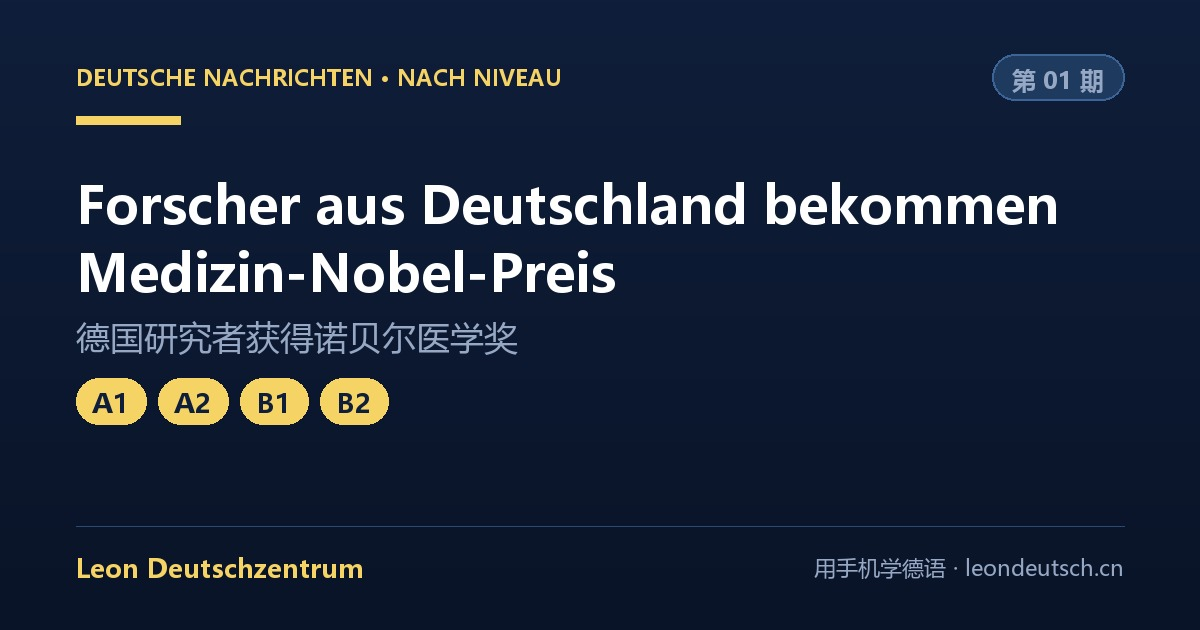
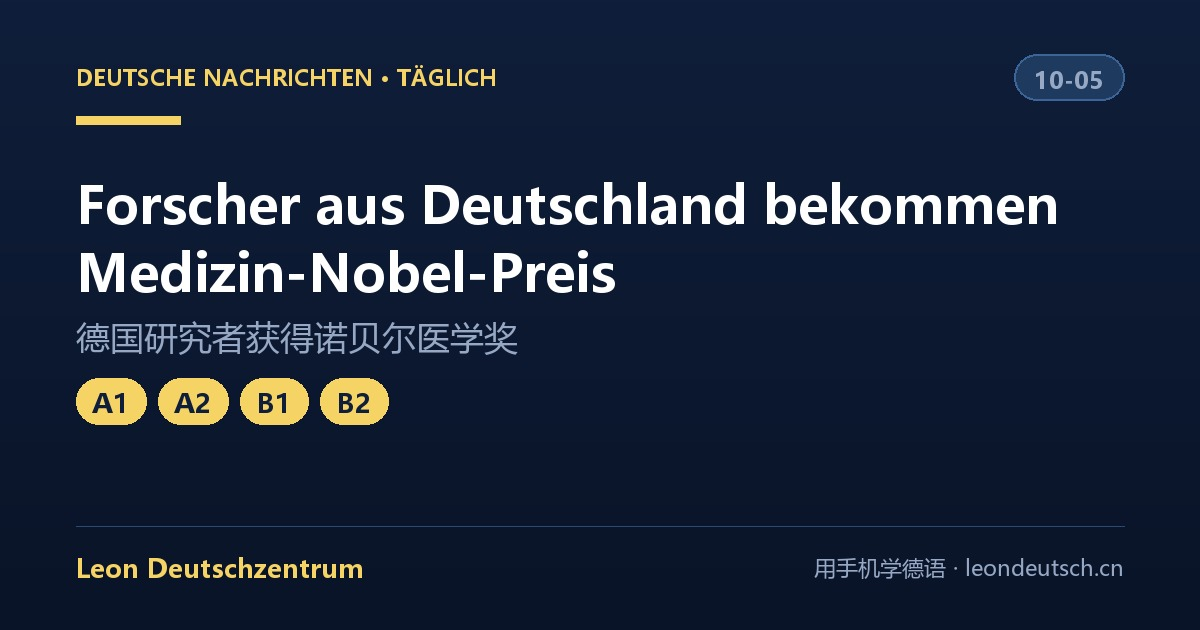
德语新闻 · 分级阅读 上线
新栏目：每期一则德国新闻，改写为 A1 / A2 / B1 / B2 四档，
德语原文 + 中文对照 + 生词表。定位是「德语阅读材料」而非时事新闻，
所以可以一期一期累积，越攒越厚。

入口：首页 hero 按钮 / 学习模块卡片 / #newslesen
数据源：_news_data.py（网站页与小红书卡片共用）

本次改动：news/01.html, news/index.html, news/og/01.jpg

Changed region(s): [[0.8017, 0.0603, 0.925, 0.181], [0.3083, 0.0905, 0.4625, 0.1508]]

diff --git a/news/01.html b/news/01.html
@@ -3,11 +3,11 @@
 <head>
 <meta charset="UTF-8">
 <meta name="viewport" content="width=device-width,initial-scale=1">
-<title>德国研究者获得诺贝尔医学奖 · 德语新闻分级阅读 第 01 期 | Leon 德语学习中心</title>
+<title>德国研究者获得诺贝尔医学奖 · 德语新闻分级阅读 2026-10-05 | Leon 德语学习中心</title>
 <meta name="description" content="今年的诺贝尔医学奖，颁给了三位研究「光遗传学」的学者。 德语原文改写为 A1 / A2 / B1 / B2 四档，配中文对照与生词表。来源：nachrichtenleicht.de (Deutschlandfunk)">
 
 <!-- Open Graph（微信 / Facebook / Twitter 分享预览卡） -->
-<meta property="og:title" content="德国研究者获得诺贝尔医学奖 · 德语新闻分级阅读 第 01 期">
+<meta property="og:title" content="德国研究者获得诺贝尔医学奖 · 德语新闻分级阅读 2026-10-05">
 <meta property="og:description" content="今年的诺贝尔医学奖，颁给了三位研究「光遗传学」的学者。 德语原文改写为 A1 / A2 / B1 / B2 四档，配中文对照与生词表。来源：nachrichtenleicht.de (Deutschlandfunk)">
 <meta property="og:image" content="/news/og/01.jpg">
 <meta property="og:image:width" content="1200">
@@ -21,12 +21,12 @@
 
 <!-- Twitter Card -->
 <meta name="twitter:card" content="summary_large_image">
-<meta name="twitter:title" content="德国研究者获得诺贝尔医学奖 · 德语新闻分级阅读 第 01 期">
+<meta name="twitter:title" content="德国研究者获得诺贝尔医学奖 · 德语新闻分级阅读 2026-10-05">
 <meta name="twitter:description" content="今年的诺贝尔医学奖，颁给了三位研究「光遗传学」的学者。 德语原文改写为 A1 / A2 / B1 / B2 四档，配中文对照与生词表。来源：nachrichtenleicht.de (Deutschlandfunk)">
 <meta name="twitter:image" content="/news/og/01.jpg">
 
 <!-- Schema.org -->
-<meta itemprop="name" content="德国研究者获得诺贝尔医学奖 · 德语新闻分级阅读 第 01 期">
+<meta itemprop="name" content="德国研究者获得诺贝尔医学奖 · 德语新闻分级阅读 2026-10-05">
 <meta itemprop="description" content="今年的诺贝尔医学奖，颁给了三位研究「光遗传学」的学者。 德语原文改写为 A1 / A2 / B1 / B2 四档，配中文对照与生词表。来源：nachrichtenleicht.de (Deutschlandfunk)">
 <meta itemprop="image" content="/news/og/01.jpg">
 
@@ -45,7 +45,7 @@
 </head>
 <body>
 <div class="box">
-  <div class="kicker">DEUTSCHE NACHRICHTEN · 第 01 期</div>
+  <div class="kicker">DEUTSCHE NACHRICHTEN · 2026-10-05</div>
   <h2>德国研究者获得诺贝尔医学奖</h2>
   <p>今年的诺贝尔医学奖，颁给了三位研究「光遗传学」的学者。 德语原文改写为 A1 / A2 / B1 / B2 四档，配中文对照与生词表。来源：nachrichtenleicht.de (Deutschlandfunk)</p>
   <p style="margin-top:18px">正在打开 <a href="/#newslesen">德语新闻 · 分级阅读</a>…</p>

diff --git a/news/index.html b/news/index.html
@@ -3,11 +3,11 @@
 <head>
 <meta charset="UTF-8">
 <meta name="viewport" content="width=device-width,initial-scale=1">
-<title>德语新闻 · 分级阅读 · 德语新闻分级阅读 第  期 | Leon 德语学习中心</title>
+<title>德语新闻 · 分级阅读 · 德语新闻分级阅读 每日更新 | Leon 德语学习中心</title>
 <meta name="description" content="一则德国新闻，改写为 A1 / A2 / B1 / B2 四档，配中文对照与生词表。持续更新。">
 
 <!-- Open Graph（微信 / Facebook / Twitter 分享预览卡） -->
-<meta property="og:title" content="德语新闻 · 分级阅读 · 德语新闻分级阅读 第  期">
+<meta property="og:title" content="德语新闻 · 分级阅读 · 德语新闻分级阅读 每日更新">
 <meta property="og:description" content="一则德国新闻，改写为 A1 / A2 / B1 / B2 四档，配中文对照与生词表。持续更新。">
 <meta property="og:image" content="/images/share-og-image.png">
 <meta property="og:image:width" content="1200">
@@ -21,12 +21,12 @@
 
 <!-- Twitter Card -->
 <meta name="twitter:card" content="summary_large_image">
-<meta name="twitter:title" content="德语新闻 · 分级阅读 · 德语新闻分级阅读 第  期">
+<meta name="twitter:title" content="德语新闻 · 分级阅读 · 德语新闻分级阅读 每日更新">
 <meta name="twitter:description" content="一则德国新闻，改写为 A1 / A2 / B1 / B2 四档，配中文对照与生词表。持续更新。">
 <meta name="twitter:image" content="/images/share-og-image.png">
 
 <!-- Schema.org -->
-<meta itemprop="name" content="德语新闻 · 分级阅读 · 德语新闻分级阅读 第  期">
+<meta itemprop="name" content="德语新闻 · 分级阅读 · 德语新闻分级阅读 每日更新">
 <meta itemprop="description" content="一则德国新闻，改写为 A1 / A2 / B1 / B2 四档，配中文对照与生词表。持续更新。">
 <meta itemprop="image" content="/images/share-og-image.png">
 
@@ -45,7 +45,7 @@
 </head>
 <body>
 <div class="box">
-  <div class="kicker">DEUTSCHE NACHRICHTEN · 第  期</div>
+  <div class="kicker">DEUTSCHE NACHRICHTEN · 每日更新</div>
   <h2>德语新闻 · 分级阅读</h2>
   <p>一则德国新闻，改写为 A1 / A2 / B1 / B2 四档，配中文对照与生词表。持续更新。</p>
   <p style="margin-top:18px">正在打开 <a href="/#newslesen">德语新闻 · 分级阅读</a>…</p>
